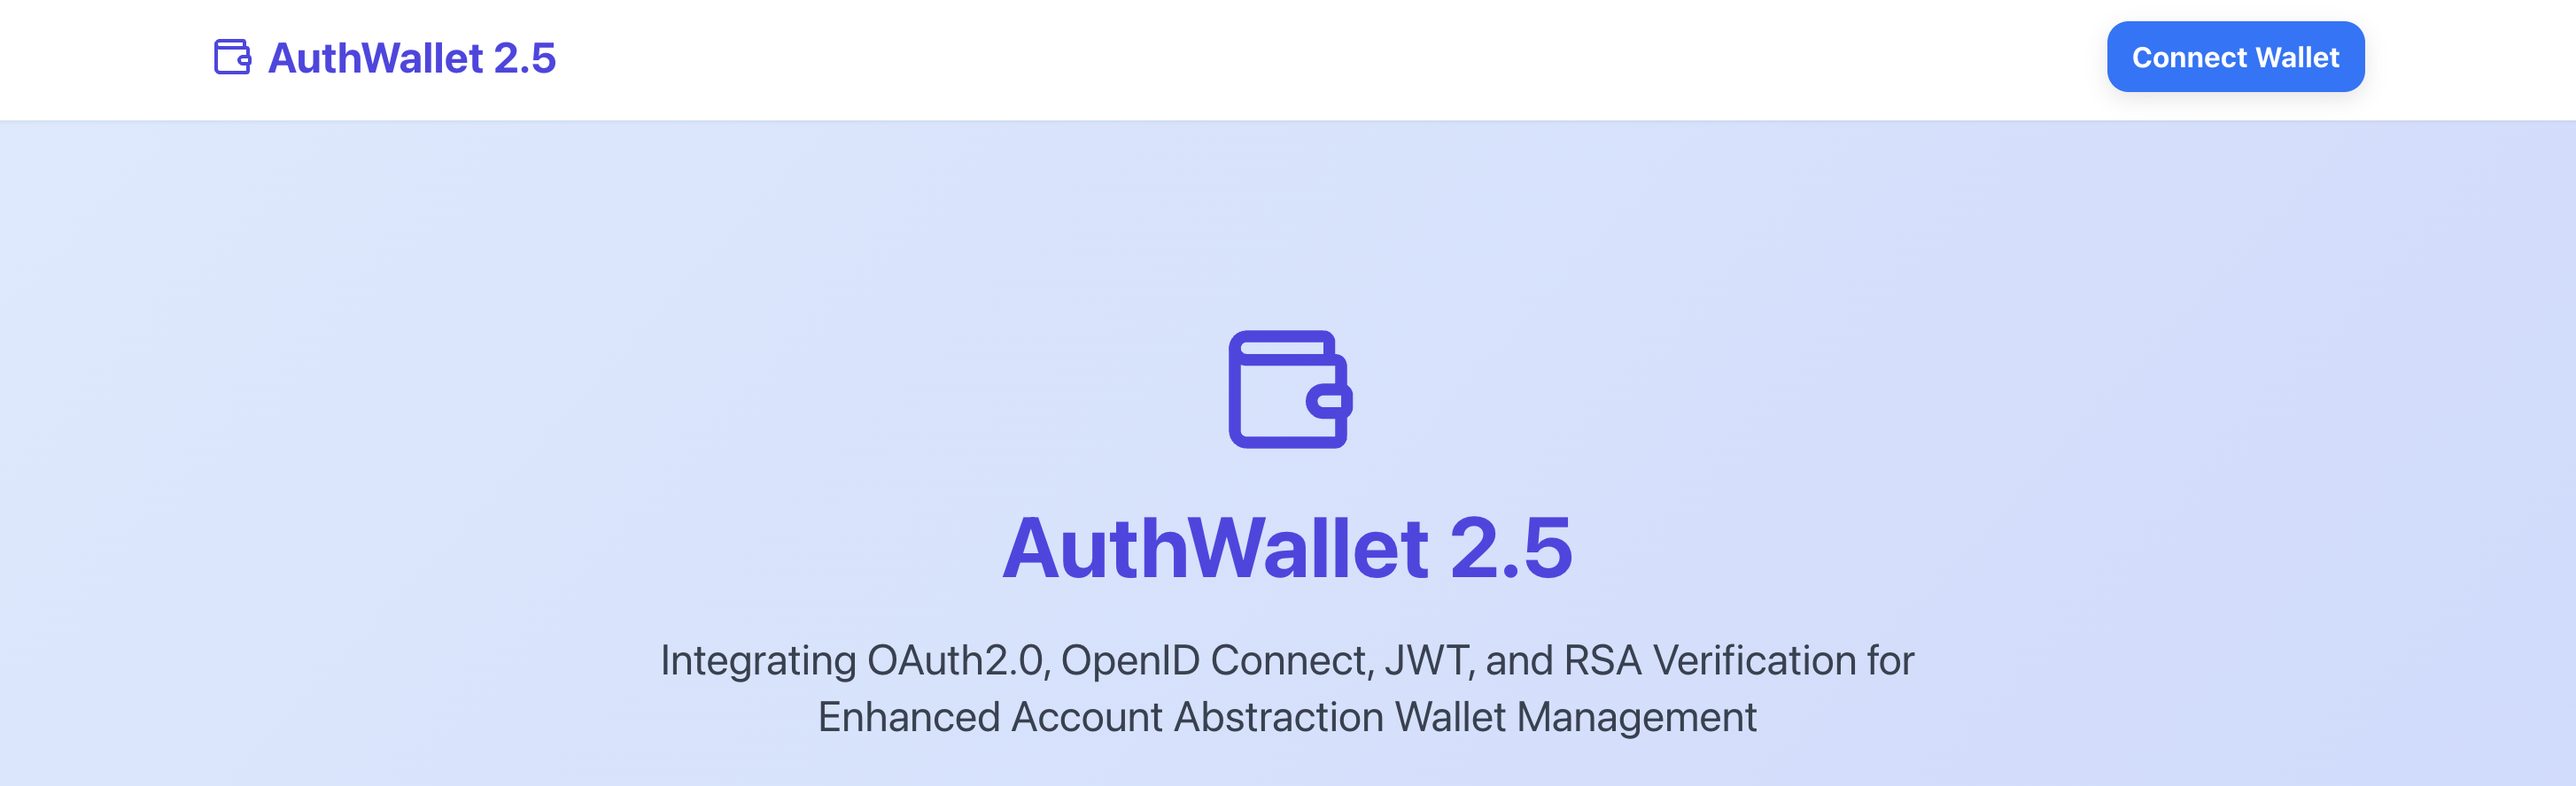
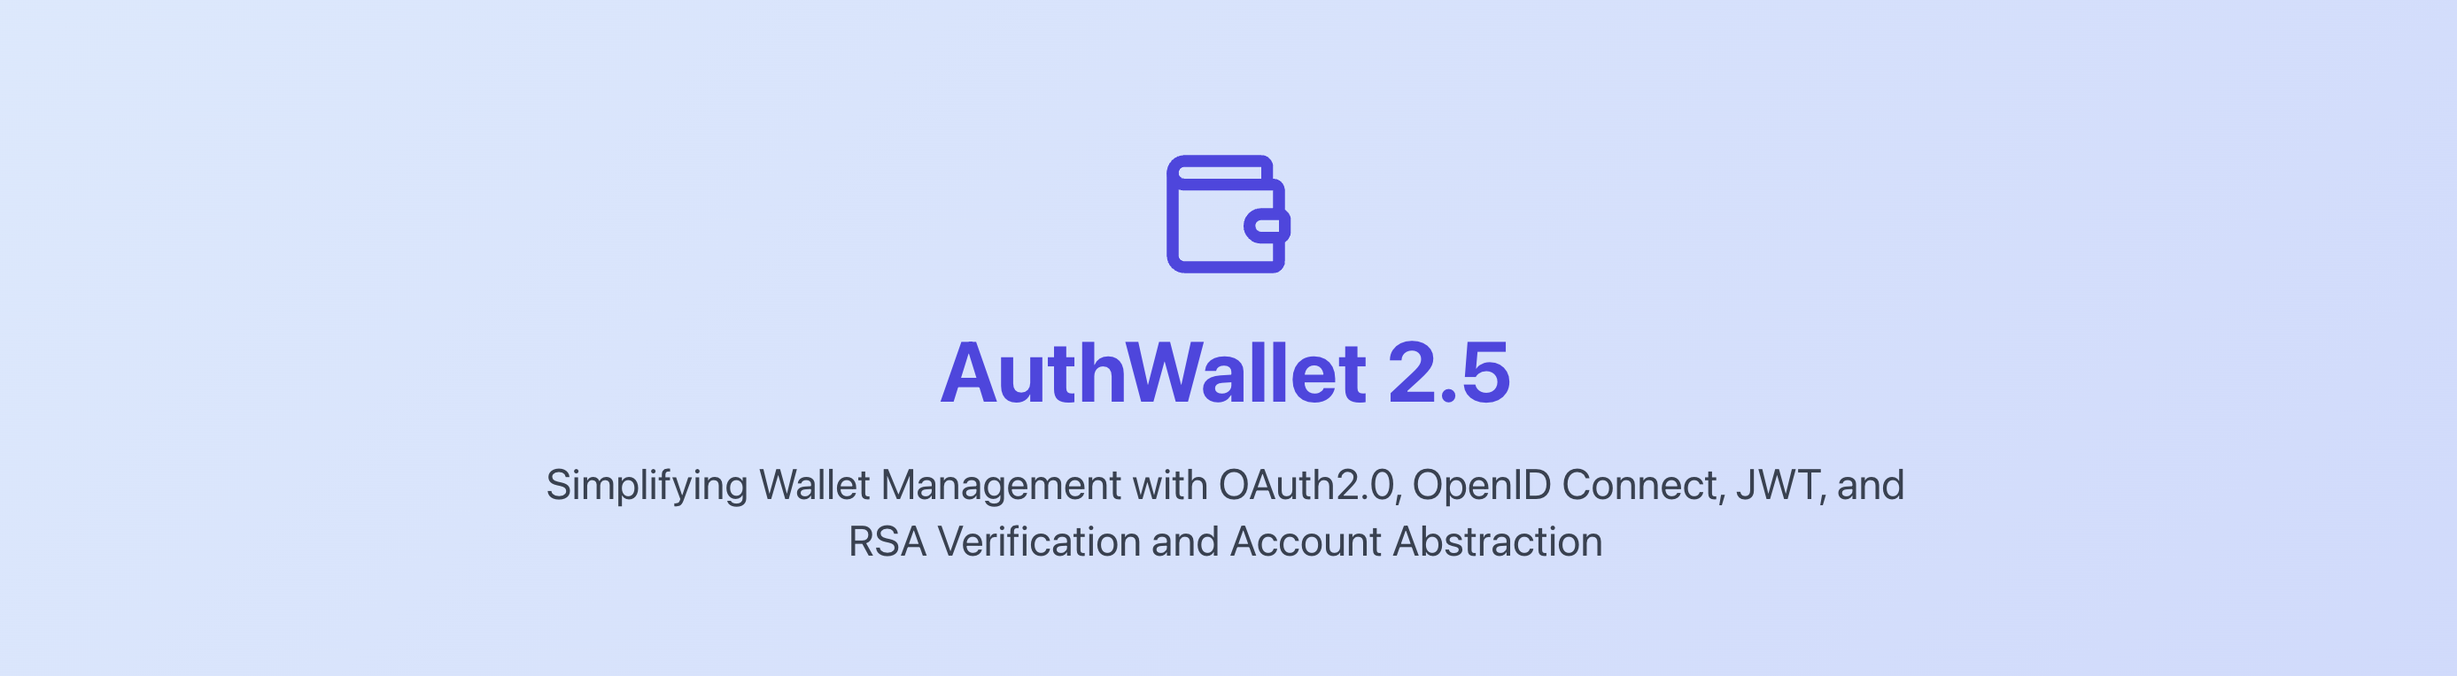
feat: replace top

diff --git a/README.md b/README.md
@@ -2,7 +2,7 @@
 
 ![top](./app/public/top.png)
 
-Simplifying Wallet Management with OAuth2.0, OpenID Connect, and Account Abstraction
+Simplifying Wallet Management with OAuth2.0, OpenID Connect, JWT, and RSA Verification and Account Abstraction
 
 ## Description
 
